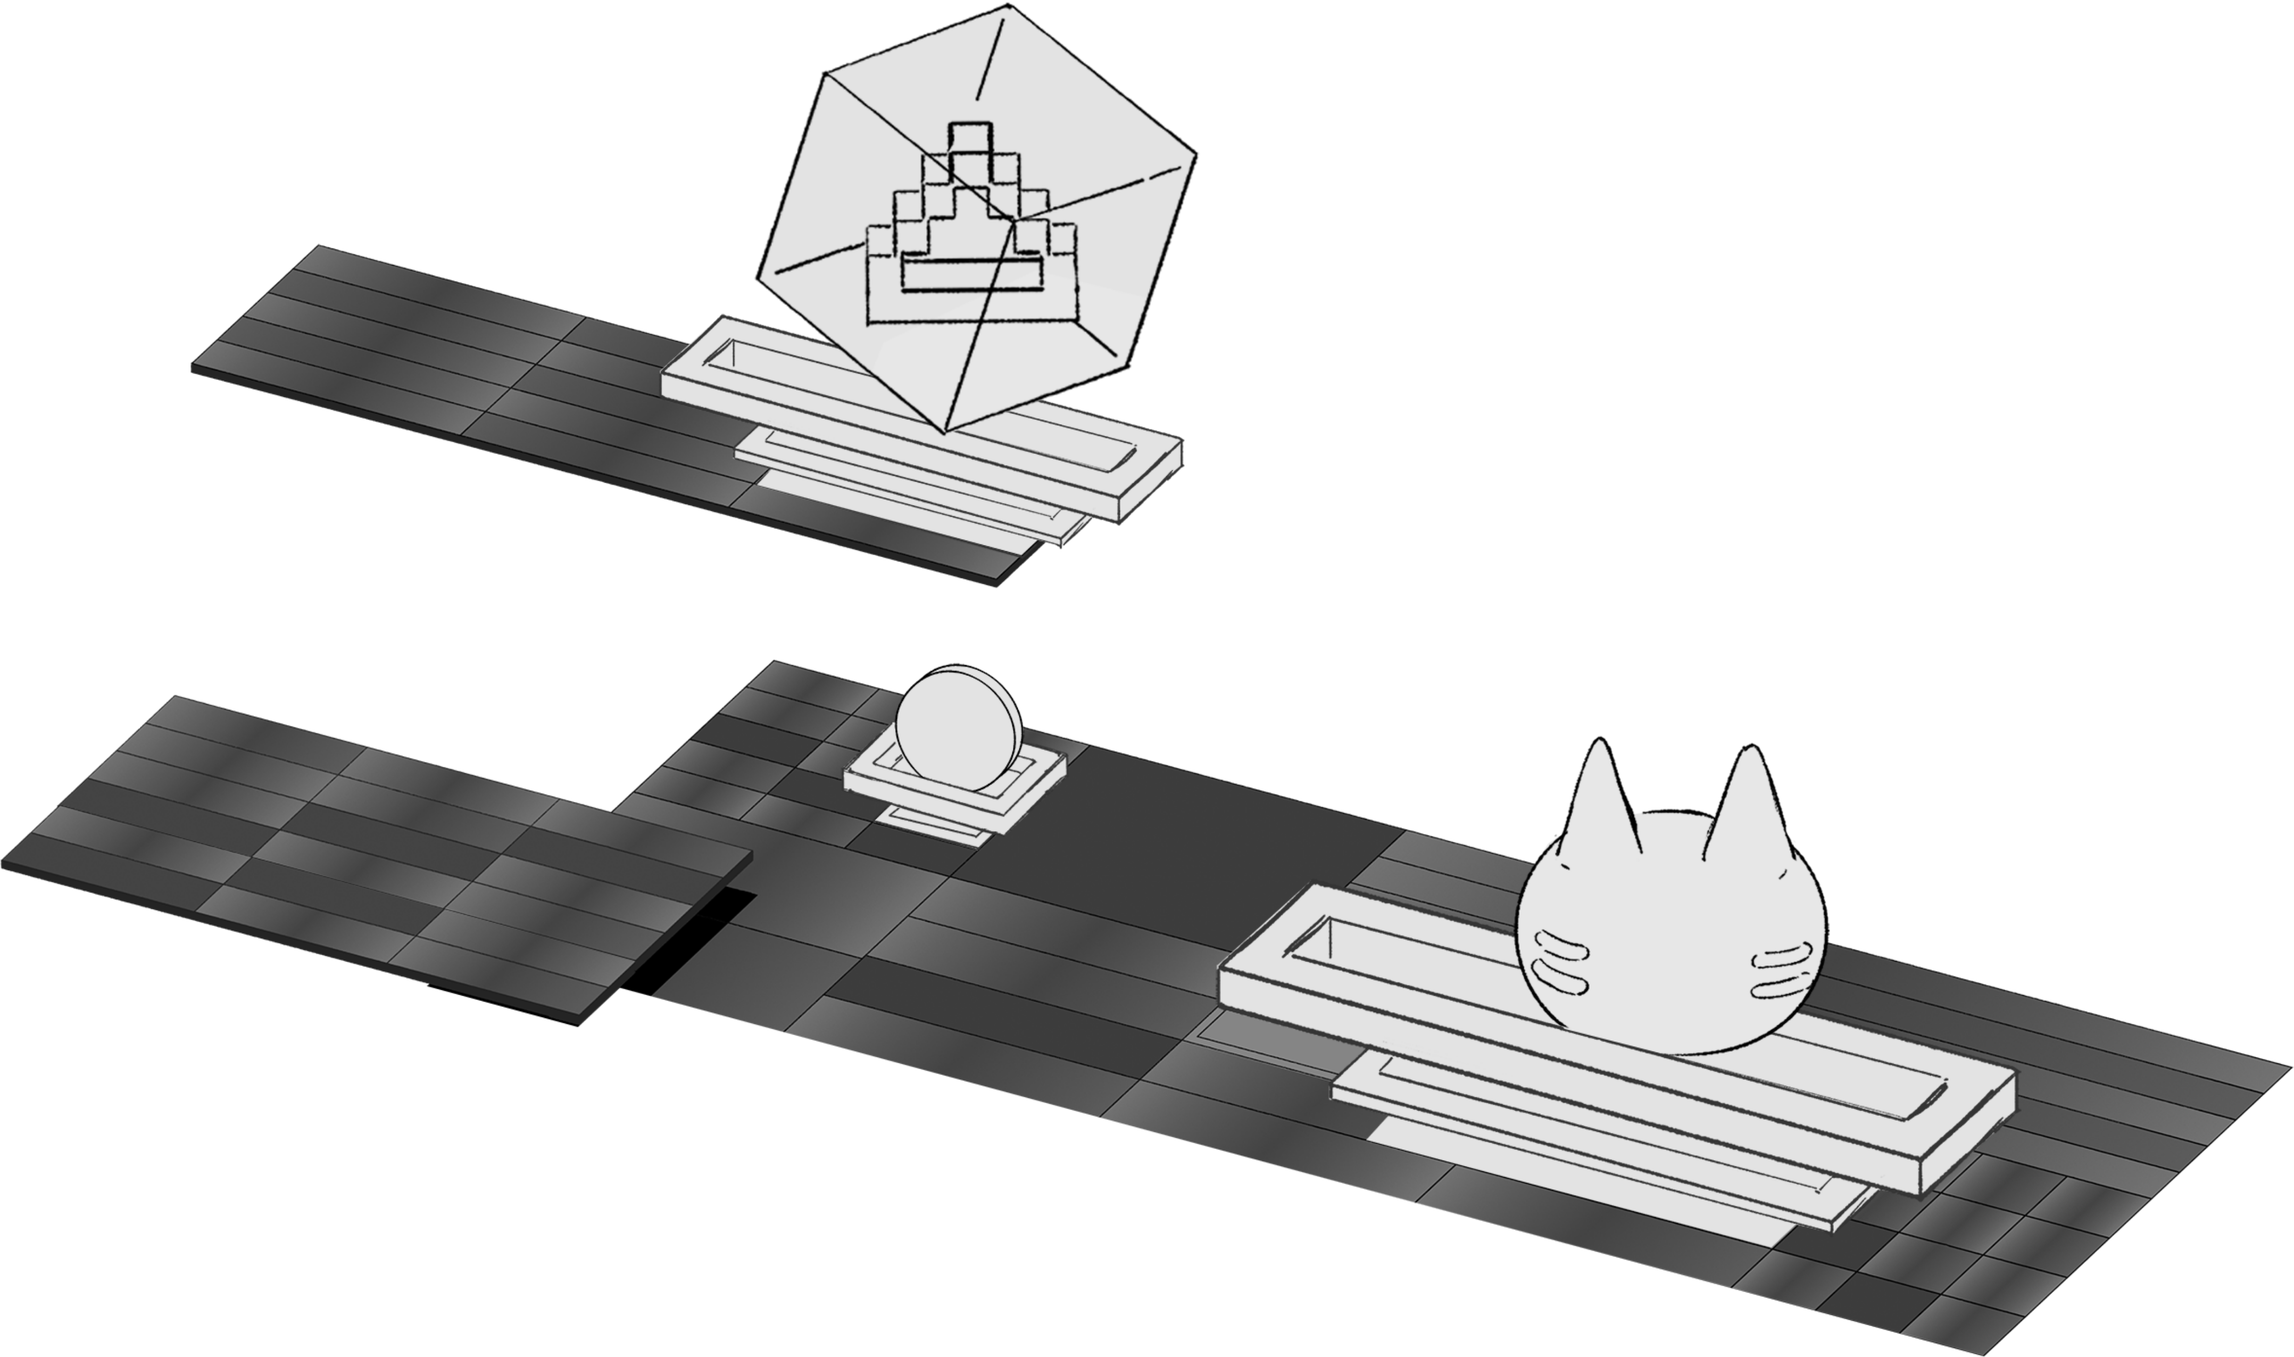
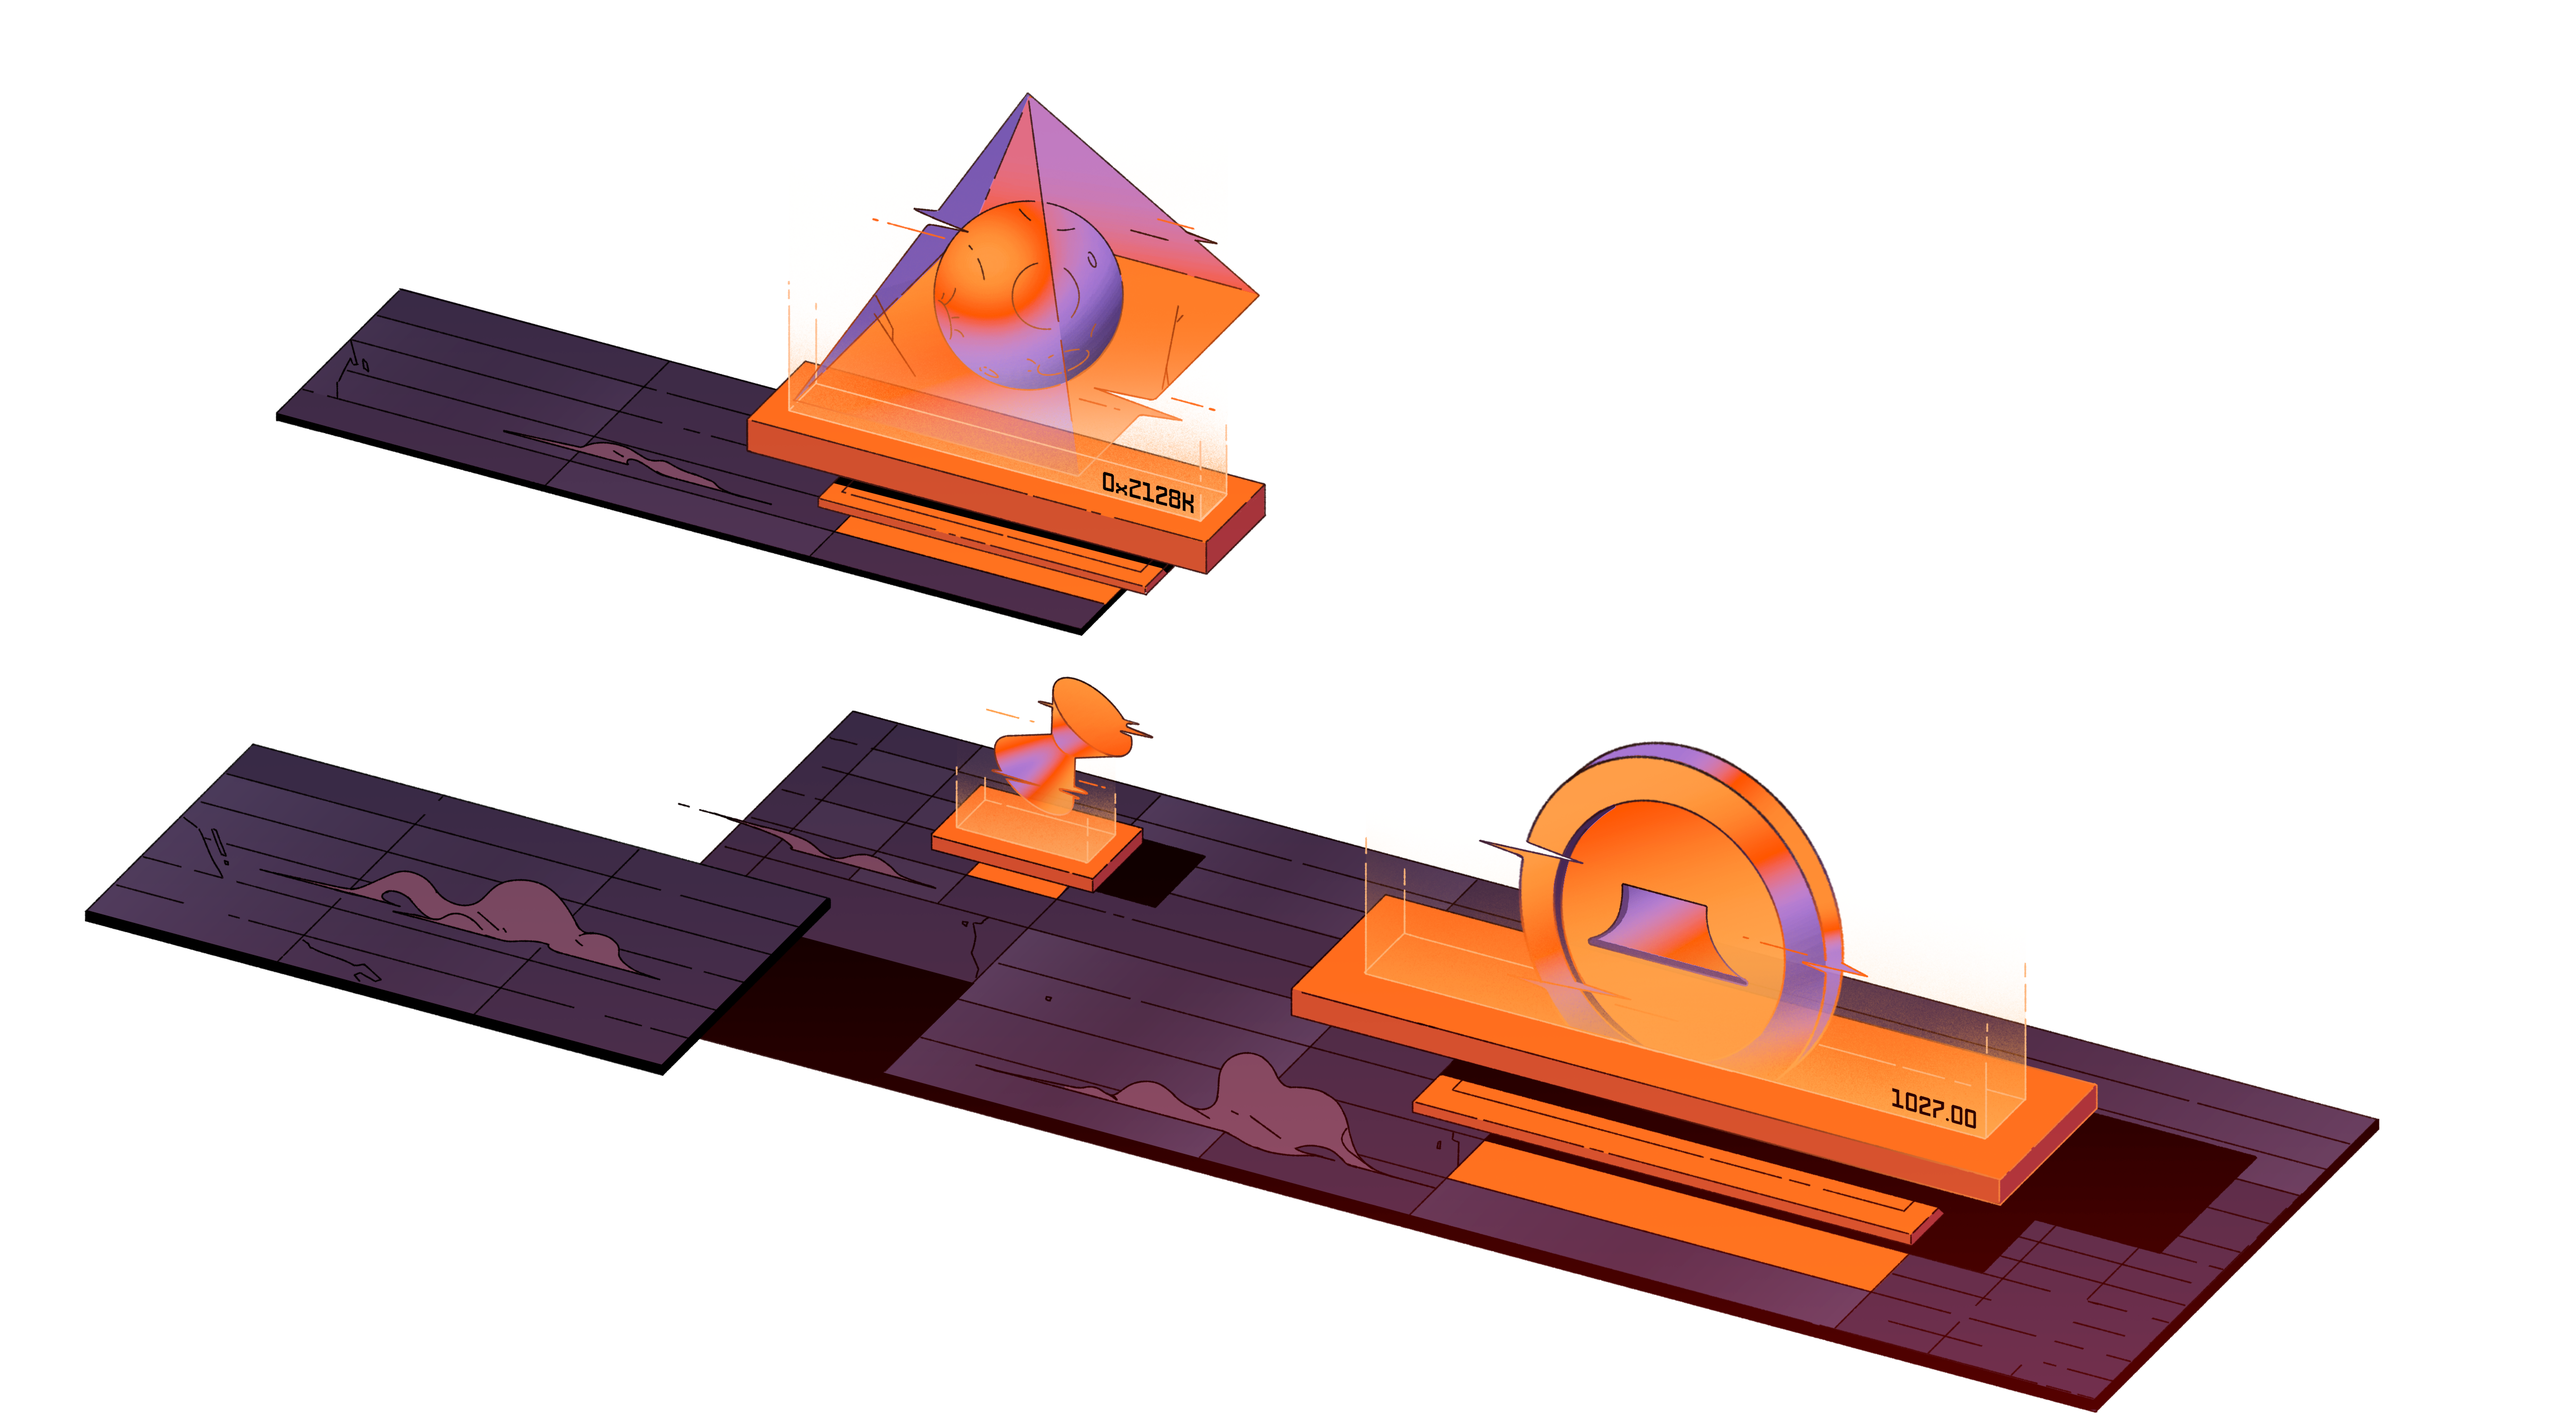
Adjust to final assets

Changed region(s): [[0.0, 0.0, 1.0, 1.0], [0.7769, 0.6196, 0.808, 0.6506]]

diff --git a/assets/css/globals.css b/assets/css/globals.css
@@ -23,72 +23,53 @@ body {
 
 /** hero **/
 .hero {
-	background: center / cover no-repeat url('~assets/img/hero.png');
-	padding-bottom: 57rem;
+	background: center / cover no-repeat url('~assets/img/hero.jpg');
+	padding-bottom: 65rem;
 }
 
 @media
   (-webkit-min-device-pixel-ratio: 2),
   (min-resolution: 2dppx) {
   .hero {
-		background-image: url('~assets/img/hero@2x.png');
+		background-image: url('~assets/img/hero@2x.jpg');
   }
 }
 
-@media
-  (-webkit-min-device-pixel-ratio: 3),
-  (min-resolution: 3dppx) {
-  .hero {
-		background-image: url('~assets/img/hero@3x.png');
-  }
+/** garage **/
+.garage {
+	background: center 37% / cover no-repeat url('~assets/img/garage.jpg');
+	padding-top: 19rem;
+  padding-bottom: 1.6rem;
 }
 
-/** playbooks **/
-.playbooks {
-	background: center / 90% no-repeat url('~assets/img/playbooks.png') #454545;
-	padding-top: 13.3rem;
-}
-
-.playbooks .break {
-	background: left / cover no-repeat url('~assets/img/playbooks-break.png') #e7e7e7;
+.garage-break {
+	background: left / cover no-repeat url('~assets/img/garage-break.png');
 	height: 185px;
 }
 
 @media
   (-webkit-min-device-pixel-ratio: 2),
   (min-resolution: 2dppx) {
-  .playbooks {
-		background-image: url('~assets/img/playbooks@2x.png');
+  .garage {
+		background-image: url('~assets/img/garage@2x.jpg');
+  }
+
+  .garage-break {
+		background-image: url('~assets/img/garage-break@2x.png');
   }
 }
 
-@media
-  (-webkit-min-device-pixel-ratio: 3),
-  (min-resolution: 3dppx) {
-  .playbooks {
-		background-image: url('~assets/img/playbooks@3x.png');
-  }
-}
-
-/** explanation **/
-.explanation {
-	background: center bottom / cover no-repeat url('~assets/img/explanation.png') #e7e7e7;
-  padding: 8rem 0 48rem;
+/** sql **/
+.sql {
+	background: center bottom / cover no-repeat url('~assets/img/sql.jpg');
+  padding-bottom: 54rem;
 }
 
 @media
   (-webkit-min-device-pixel-ratio: 2),
   (min-resolution: 2dppx) {
-  .explanation {
-		background-image: url('~assets/img/explanation@2x.png');
-  }
-}
-
-@media
-  (-webkit-min-device-pixel-ratio: 3),
-  (min-resolution: 3dppx) {
-  .explanation {
-		background-image: url('~assets/img/explanation@3x.png');
+  .sql {
+		background-image: url('~assets/img/sql@2x.jpg');
   }
 }
 
@@ -111,18 +92,6 @@ body {
 
   .tables .art {
     background-image: url('~assets/img/tables@2x.png');
-  }
-}
-
-@media
-  (-webkit-min-device-pixel-ratio: 3),
-  (min-resolution: 3dppx) {
-  .tables {
-		background-image: url('~assets/img/tables-bg@3x.png');
-  }
-
-  .tables .art {
-    background-image: url('~assets/img/tables@3x.png');
   }
 }
 

diff --git a/pages/index.vue b/pages/index.vue
@@ -21,7 +21,7 @@
     <section class="hero">
       <div class="container flex items-center py-64">
         <div class="w-1/2">
-          <h1 class="font-Orbitron text-7xl tracking-tighter leading-none mb-8">
+          <h1 class="font-Orbitron text-7xl tracking-tighter leading-none mb-6">
             Build dApps and NFT games using familiar SQL
           </h1>
           <p class="text-3xl leading-normal mb-18">
@@ -37,8 +37,8 @@
       </div>
     </section>
 
-    <!-- playbooks -->
-    <section class="playbooks">
+    <!-- garage -->
+    <section class="garage">
       <div class="container flex justify-between">
         <div class="w-3/12">
           <div class="bg-black text-white pt-14 pb-6 px-16 mb-24 rounded-3xl">
@@ -83,12 +83,12 @@
           </div>
         </div>
       </div>
-      <div class="break"></div>
     </section>
 
-    <!-- explanation -->
-    <section class="explanation">
-      <div class="container flex">
+    <!-- sql -->
+    <section class="sql">
+      <div class="garage-break"></div>
+      <div class="container flex pt-20">
         <div class="w-1/2">
           <h1 class="font-Orbitron text-7xl tracking-tighter leading-none mb-8">
             In Tableland, we speak SQL

diff --git a/tailwind.config.js b/tailwind.config.js
@@ -10,7 +10,7 @@ export default {
         widest: '0.23rem'
       },
       spacing: {
-        18: '4.5rem',
+        18: '4.2rem',
         30: '7.8rem',
         68: '17rem'
       },
